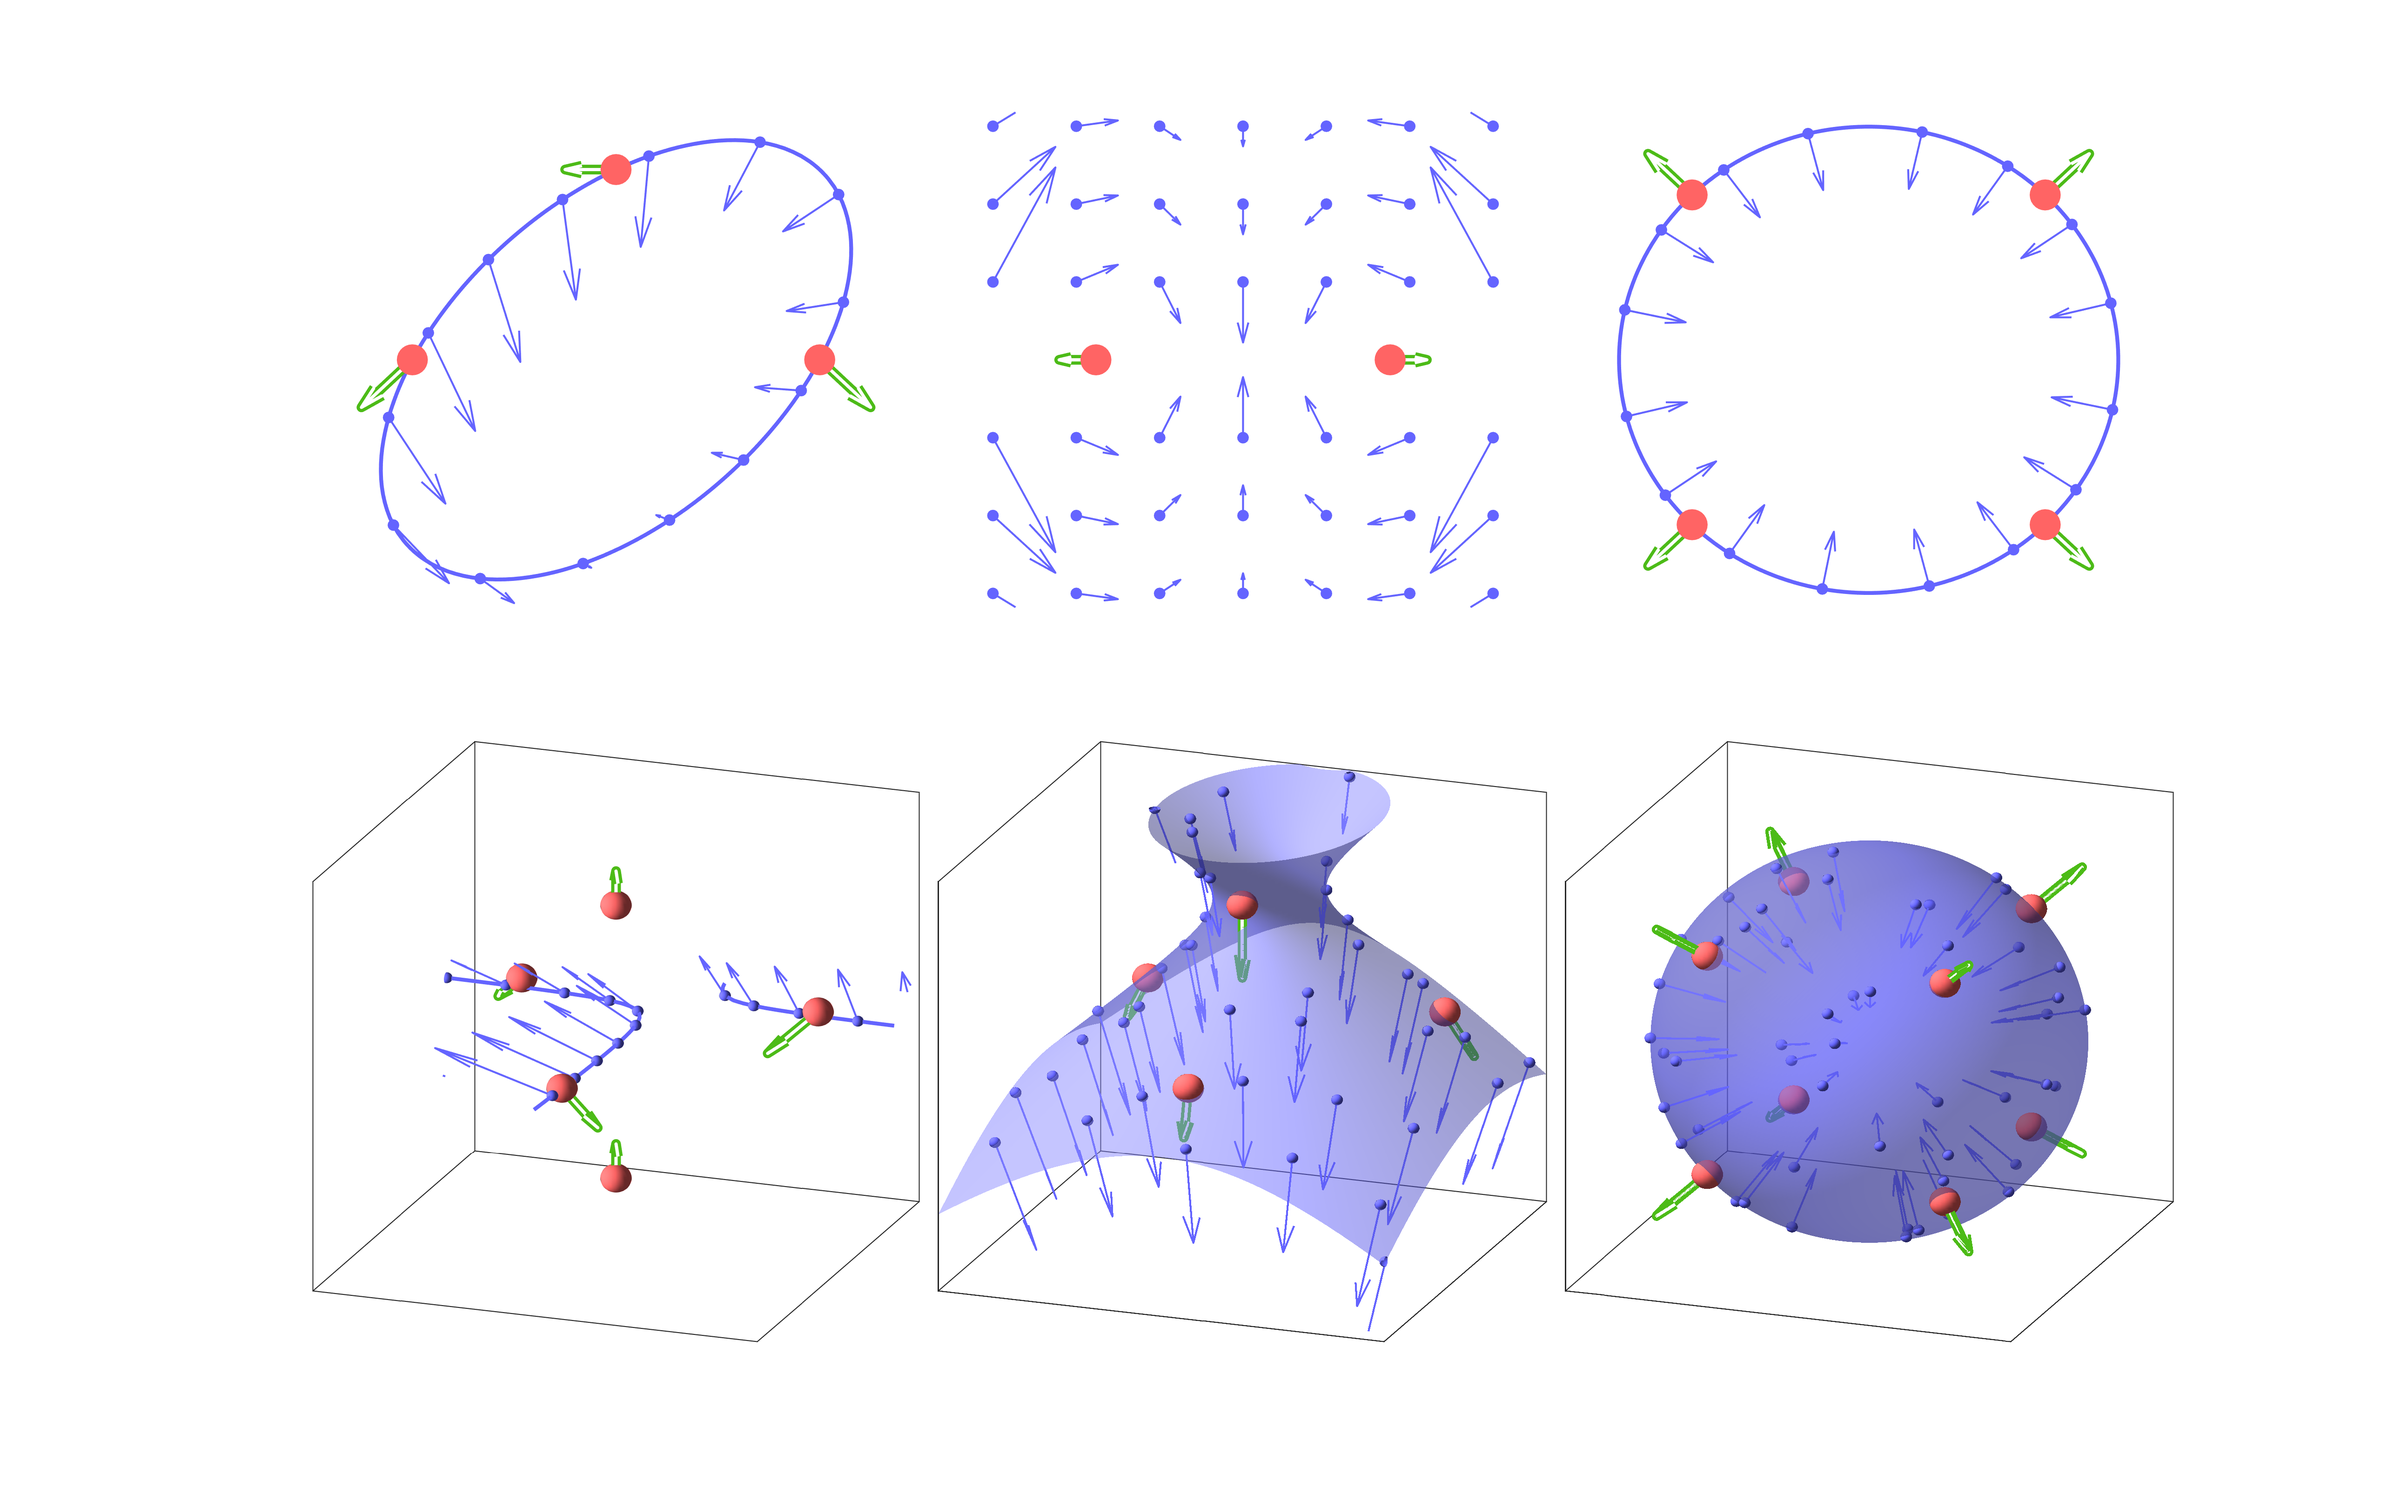
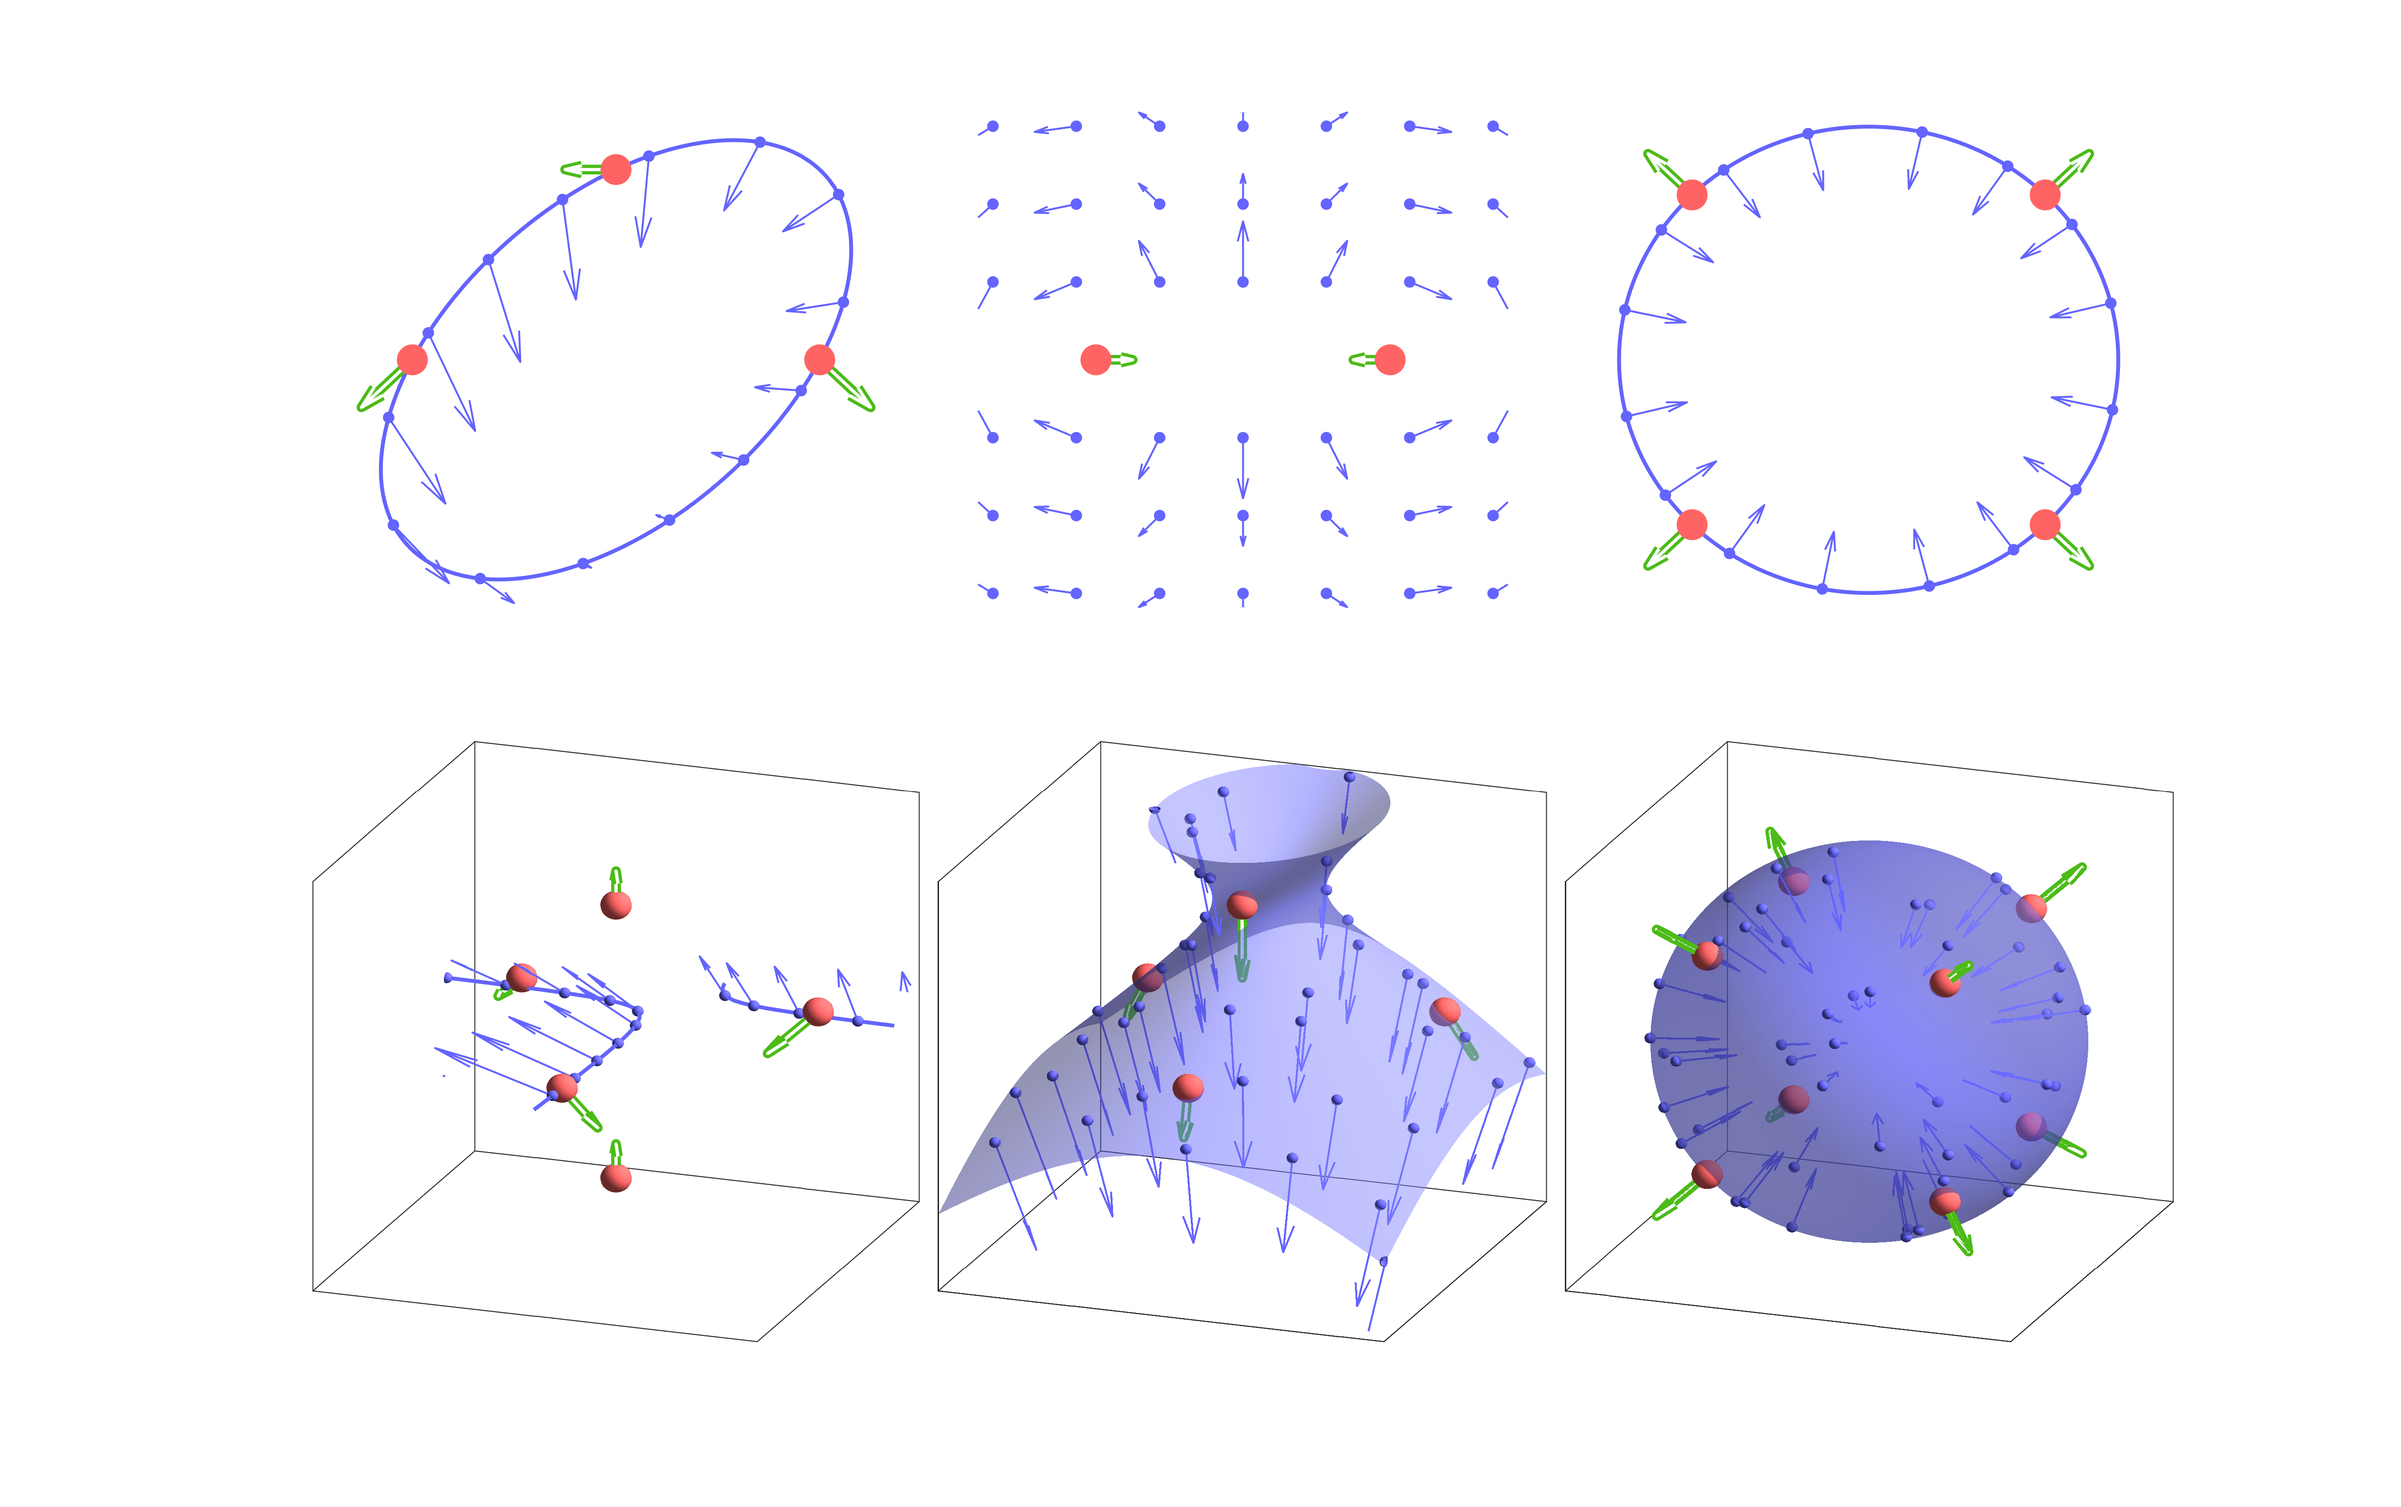
Addition of subfigure for multi-mode construction, and attempt at improving cooperativity example

diff --git a/test.m b/test.m
@@ -103,7 +103,7 @@ nPan1 = [];
 for i = 1:5; nPan1 = [nPan1, [1:6]+(i-1)*24+1]; end
 nPan2 = [];
 for i = 1:6; nPan2 = [nPan2, [1:8]+(i-1)*24]; end
-az = -160; el = 20;         % Views
+az = -160; el = 10;         % Views
 
 
 % Positions and Motions
@@ -213,7 +213,7 @@ fig = figure(4); clf;
 nPan1 = [];
 for i = 1:5; nPan1 = [nPan1, [1:7]+(i-1)*24+.5]; end
 nPan2 = [];
-for i = 1:6; nPan2 = [nPan2, [1:8]+(i-1)*24]; end
+for i = 1:6; nPan2 = [nPan2, [1:7]+(i-1)*24+.5]; end
 az = -175; el = 10;         % Views
 
 
@@ -232,7 +232,7 @@ Us(:,:,2) = [[-1 1 1];...
 UsSSS = zeros(2,4,2);
 UsSSS(:,:,1) = [[-1 -1 1 1];...
                [-1 1 1 -1]]/2;
-UsSSS(:,:,2) = [[.2 -1 1 -.2];...
+UsSSS(:,:,2) = [[.2 1 -1 -.2];...
                [-1 .5 .5 -1]]/2;
 % Initial guess for unspecified nodes
 x0 = [-.7 .7]';
@@ -247,22 +247,32 @@ visualize_conic(Xs, Us, [-1 1; -1 1]*2, [100 100], 0, 1, 0);
 axis(1.5*[-1 1 -1 1]);
 
 
-% b: Place unspecified nodes and construct motions
+% c: Place unspecified nodes and construct motions
 subplot(12,24,nPan1+8)
 [Xu1, fV] = construct_network(Xs, Us, x0, conn, 0);
 [Us1, Uu1, err] = construct_motion(Xs, Us, Xu1, conn, 1, 1);
 axis(1.5*[-1 1 -1 1]);
 
 
-% c: Construct states of self-stress
+% e: Construct states of self-stress
 subplot(12,24,nPan1+16);
-[XuSSS1, fV] = construct_network(XsSSS(:,[1 2 3]), UsSSS(:,[1 2 3],:), [-sqrt(2); 0], connSSS, 0);
-[XuSSS2, fV] = construct_network(XsSSS(:,[1 2 4]), UsSSS(:,[1 2 4],:), [-.5; 1.3], connSSS, 0);
-[XuSSS4, fV] = construct_network(XsSSS(:,[2 3 4]), UsSSS(:,[2 3 4],:), [sqrt(2); 0], connSSS, 0);
-[XuSSS3, fV] = construct_network(XsSSS(:,[1 3 4]), UsSSS(:,[1 3 4],:), [.5; 1.3], connSSS, 0);
+% subplot(2,2,1);
+% visualize_conic(XsSSS(:,[2 3 4]), UsSSS(:,[2 3 4],:), [-1 1; -1 1]*2, [100 100], 0, 1, 1);
+[XuSSS1, fV] = construct_network(XsSSS(:,[2 3 4]), UsSSS(:,[2 3 4],:), [-1 -1]', connSSS, 1);
+% subplot(2,2,2);
+% visualize_conic(XsSSS(:,[1 3 4]), UsSSS(:,[1 3 4],:), [-1 1; -1 1]*2, [100 100], 0, 1, 1);
+[XuSSS2, fV] = construct_network(XsSSS(:,[1 3 4]), UsSSS(:,[1 3 4],:), [-1 0]', connSSS, 1);
+% subplot(2,2,3);
+% visualize_conic(XsSSS(:,[1 2 4]), UsSSS(:,[1 2 4],:), [-1 1; -1 1]*2, [100 100], 0, 1, 1);
+[XuSSS3, fV] = construct_network(XsSSS(:,[1 2 4]), UsSSS(:,[1 2 4],:), [1 0]', connSSS, 1);
+% subplot(2,2,4);
+% visualize_conic(XsSSS(:,[1 2 3]), UsSSS(:,[1 2 3],:), [-1 1; -1 1]*2, [100 100], 0, 1, 1);
+[XuSSS4, fV] = construct_network(XsSSS(:,[1 2 3]), UsSSS(:,[1 2 3],:), [1 -1]', connSSS, 1);
 XuSSS = [XuSSS1 XuSSS2 XuSSS3 XuSSS4];
-connSSS = [1 1; 2 1; 3 1; 1 2; 2 2; 4 2; 1 3; 3 3; 4 3; 2 4; 3 4; 4 4];
-[Us1, Uu1, err] = construct_motion(XsSSS, UsSSS, XuSSS, connSSS, 1, 1);
+connSSS = [2 1; 3 1; 4 1; 1 2; 3 2; 4 2; 1 3; 2 3; 4 3; 1 4; 2 4; 3 4];
+[Us1, Uu1, err] = construct_motion(XsSSS, UsSSS, XuSSS, connSSS, 1, 0);
+axis(1.5*[-1 1 -1 1]);
+% [XM, fC] = sim_motion(XsSSS, XuSSS, connSSS, .1, 110, -[XsSSS XuSSS],1);
 
 
 % Positions and Motions
@@ -282,11 +292,24 @@ x0 = [-.7 -.5 .8;...
       1.2 -.4 -.75;...
       -.4 -1.5 -.3;...
       .2 .6 .6]'*.8;
+x0SSS = [-.7 -.5 .8;...
+         1.2 -.4 -.75;...
+         -.4 -1.5 -.3;...
+         .2 .6 .6;...
+         -.05 .58 -.85]'*.8;...
+         
 % Connectivity
-conn = [1 1; 2 1; 3 1; 4 1; 1 2; 2 2; 3 2; 4 2;...
-        1 3; 2 3; 3 3; 4 3; 1 4; 2 4; 3 4; 4 4];
+conn = [1 1; 2 1; 3 1; 4 1;...
+        1 2; 2 2; 3 2; 4 2;...
+        1 3; 2 3; 3 3; 4 3;...
+        1 4; 2 4; 3 4; 4 4];
+connSSS = [1 1; 2 1; 3 1; 4 1;...
+           1 2; 2 2; 3 2; 4 2;...
+           1 3; 2 3; 3 3; 4 3;...
+           1 4; 2 4; 3 4; 4 4;...
+           1 5; 2 5; 3 5; 4 5];
     
-% d: Visualize solution space
+% b: Visualize solution space
 subplot(12,24,nPan2+24*6)
 visualize_conic(Xs, Us, [-1 1; -1 1; -1 1]*1.8, [100 100 100], 0, 1, 0);
 axis(1.5*[-1 1 -1 1 -1 1]);
@@ -294,10 +317,23 @@ view(az, el);
 camlight(azC, elC); lighting gouraud; material([.4 1 0]);
 
 
-% e: Place unspecified nodes and construct motion
+% d: Place unspecified nodes and construct motion
 subplot(12,24,nPan2+24*6+8)
 [Xu1, fV] = construct_network(Xs, Us, x0, conn, 0);
 [Us1, Uu1, err] = construct_motion(Xs, Us, Xu1, conn, 1, 1);
+axis(1.5*[-1 1 -1 1 -1 1]);
+view(az, el);
+camlight(azC, elC); lighting gouraud; material([.4 1 0]);
+
+
+% f: Place unspecified nodes and construct motion
+subplot(12,24,nPan2+24*6+16)
+[Xu1, fV] = construct_network(Xs, Us, x0SSS, connSSS, 0);
+% Lengths
+LVal = sqrt((Xs(1,connSSS(:,1)) - Xu1(1,connSSS(:,2))).^2 +...
+            (Xs(2,connSSS(:,1)) - Xu1(2,connSSS(:,2))).^2 +...
+            (Xs(3,connSSS(:,1)) - Xu1(3,connSSS(:,2))).^2);
+[Us1, Uu1, err] = construct_motion(Xs, Us, Xu1, connSSS, .01, .01);
 axis(1.5*[-1 1 -1 1 -1 1]);
 view(az, el);
 camlight(azC, elC); lighting gouraud; material([.4 1 0]);
@@ -314,7 +350,7 @@ fig.PaperSize = [19.2 10.8];
 
 
 %% Figure 5b-d
-figure(5); clf;
+fig = figure(5); clf;
 % Subplot Panel Sizes
 nPan1 = [];
 for i = 1:6; nPan1 = [nPan1, [1:4]+(i-1)*24]; end
@@ -338,6 +374,7 @@ conn = [1 1; 2 1; 3 1; 4 1; 1 2; 2 2; 3 2; 4 2];
 subplot(12,24,nPan1)
 construct_network(Xs + [0;1.2], Us, x0 + [0;1.2], conn, 1);
 construct_network(Xs - [0;1.2], Us, x0 - [0;1.2], conn, 1);
+axis([-1.8 1.8 -2.8 2.8]);
 
 
 % b: Combined modules with motion
@@ -345,6 +382,7 @@ subplot(12,24,nPan1 + 4)
 [Xu, fV] = construct_network(Xs, Us, x0, conn, 0);
 [XsT, XuT, connT] = tesselate_network(Xs, Xu, conn, [2 2]', [1 2]');
 [Us, Uu, err] = construct_motion(XsT, zeros(0,0,0), XuT, connT, -2, -2);
+axis([-1.8 1.8 -1.8 3.8]);
 
 
 % c: Tesselation expanded
@@ -356,8 +394,8 @@ axis([-4 12 -2 10]);
 
 
 % d: Tesselation contracted
-subplot(12,24,[nPan1 nPan1+4]+16)
-[XMot2, fC] = sim_motion(XsT, XuT, connT, .1, 110, -[XsT XuT],0);
+subplot(12,24,[nPan1 nPan1+4]+16);
+[XMot2, fC] = sim_motion(XsT, XuT, connT, .1, 130, -[XsT XuT],0);
 construct_motion(XMot2(:,1:size(XsT,2),end), zeros(0,0,0), XMot2(:,[1:size(XuT,2)]+size(XsT,2),end), connT, .1, .1);
 axis([-4 12 -2 10]);
 
@@ -405,7 +443,7 @@ conn = [1 1; 2 1; 3 1; 4 1; 5 1;...
 [Usp, Uup, err] = construct_motion(Xs2, -Us2, Xu2, conn, 1, 1);
 
 axis([.9 19.1 -3 1.4 .5 3.5]);
-view(-10, 10);
+view(-8, 10);
 
 
 [XsT, XuT, connT] = tesselate_network([Xs1 Xs2-[1;0;0]], [Xu1 Xu2-[1;0;0]], [conn; conn+[size(Xs1,2), size(Xu1,2)]], [0 0 0]', [1 1 1]');
@@ -432,6 +470,80 @@ fig.PaperUnits = 'inches';
 fig.PaperPosition = [0 0 19.2 10.8];
 fig.PaperSize = [19.2 10.8];
 % print(['Figures\' fName], '-dpng','-r300');
+
+
+%% Cooperativity Design
+figure(6); clf;
+nPan1 = [];
+for i = 1:5; nPan1 = [nPan1, [1:4]+(i-1)*24]; end
+nPan2 = [];
+for i = 1:6; nPan2 = [nPan2, [1:24]+(i-1)*24]; end
+az = 30; el = 25;         % Views
+azC = 50; elC = 30;         % Camera Position
+
+xS1 = [-2 -2 -1 -1;...
+       -1  1  0  0;...
+        0  0 -1  1]/2;
+xF1 = xS1 - [ 0     0     0     0;...
+             -0.2   0.2   0     0;...
+              0     0     0.05 -0.05];
+        
+xS2 = [ 2  2  1  1;...
+       -1  1  0  0;...
+        0  0 -1  1]/2;
+xF2 = xS2 - [ 0     0     0     0;...
+             -0.2   0.2   0     0;...
+              0     0     0.05 -0.05];
+
+x01 = [-0.681  0.151  0.596;...
+       -0.818  0.145  0.010;...
+       -0.740  0.172 -0.515;...
+       -0.795 -0.152  0.300;...
+       -0.818 -0.146  0.051;...
+       -0.758 -0.169 -0.475]';
+% x01 = x01 + (rand(size(x01)) - .5)/10;
+% x01 = [-1.6  0.1  0.6;...
+%        -1.6 -0.1  0.6;...
+%        -1.5  0.3  0.6;...
+%        -1.5 -0.3  0.6;...
+%        -1.2  0.2 -0.5;...
+%        -1.2 -0.2 -0.5]';
+% x02 = [0.8 -0.2  0.9;...
+%        0.8  0.2  0.9;...
+%        1.8 -0.4  0.4;...
+%        1.8  0.4  0.4;...
+%        1.1 -0.3 -0.8;...
+%        1.1  0.3 -0.8]';
+x02 = [-x01(1,:); x01(2:3,:)];
+conn1 = [1 1; 2 1; 3 1; 4 1;...
+         1 2; 2 2; 3 2; 4 2;...
+         1 3; 2 3; 3 3; 4 3;...
+         1 4; 2 4; 3 4; 4 4;...
+         1 5; 2 5; 3 5; 4 5;...
+         1 6; 2 6; 3 6; 4 6];
+     
+xC = [-1 -1  1  1  0      ;...
+       0  0  0  0  sqrt(2);...
+      -1  1 -1  1  0]/2   ;
+x0C = [ 0        sqrt(2)  sqrt(2);...
+        0        sqrt(2) -sqrt(2);...
+        sqrt(2)  sqrt(2)  0.0    ;...
+       -sqrt(2)  sqrt(2)  0.0     ]'/4;
+uC = xC/2;
+connC = [1 1; 2 1; 3 1; 4 1; 5 1;...
+         1 2; 2 2; 3 2; 4 2; 5 2;...
+         1 3; 2 3; 3 3; 4 3; 5 3;...
+         1 4; 2 4; 3 4; 4 4; 5 4];
+
+     
+     
+% subplot(2,3,1); cla;
+visualize_conic_finite(xS1, xF1, [-1 2; -1 1; -1 1]*1, [100; 100; 100], 2, 1, 1);
+visualize_conic(xS1, xF1-xS1 - .4*[1 1 0 0; 0 0 0 0; 0 0 0 0], [-2 2; -1 1; -1 1]*1, [100; 100; 100], 0, 1, 1);
+view(az, el);
+
+
+
 
 
 %% Figure 6
@@ -466,12 +578,19 @@ xF2 = xS2 - [ 0     0     0     0;...
              -0.2   0.2   0     0;...
               0     0     0.05 -0.05];
 
-x01 = [-1.561 -0.876  0.415;...
-       -1.561  0.876  0.315;...
-       -1.390 -0.955  0.10;...
-       -1.390  0.955  0.20;...
-       -1.476 -0.700 -0.233;...
-       -1.476  0.700 -0.333]';
+x01 = [-0.700  0.151  0.565;...
+       -0.818  0.145  0.010;...
+       -0.740  0.172 -0.515;...
+       -0.795 -0.152  0.300;...
+       -0.818 -0.146  0.051;...
+       -0.758 -0.169 -0.475]';
+x01 = x01 + (rand(size(x01)) - .5)*.1;
+% x01 = [-1.561 -0.876  0.415;...
+%        -1.561  0.876  0.315;...
+%        -1.390 -0.955  0.10;...
+%        -1.390  0.955  0.20;...
+%        -1.476 -0.700 -0.233;...
+%        -1.476  0.700 -0.333]';
 % x01 = x01 + (rand(size(x01)) - .5)/10;
 % x01 = [-1.6  0.1  0.6;...
 %        -1.6 -0.1  0.6;...
@@ -545,19 +664,21 @@ LVal1 = sqrt((xS1(1,conn1(:,1)) - Xu1(1,conn1(:,2))).^2 +...
 LVal2 = sqrt((xS2(1,conn1(:,1)) - Xu2(1,conn1(:,2))).^2 +...
              (xS2(2,conn1(:,1)) - Xu2(2,conn1(:,2))).^2 +...
              (xS2(3,conn1(:,1)) - Xu2(3,conn1(:,2))).^2);
+drawnow;
          
          
 % Simulate
-kT = [ones(48,1); ones(23,1)];
-% [MSi, ESi] = sim_motion3D_congrad(xS2, Xu2(1:3,:), conn1, LVal2, 0.001, 1000, [1 2], xF2(:,[1 2]));
-% [MSSi, ESSi] = sim_motion3D_congrad(MSi(:,1:4,end), MSi(:,5:10,end), conn1, LVal1, 0.001, 20, [1], MSi(:,[1]));
-% D = zeros(size(xS1,2), size(xS1,2), length(ESi));
-% for i = 1:length(ESi)
-%     D(:,:,i) = squareform(pdist(MSi(:,1:4,i)'));
-% end
-% DS = squareform(pdist(xF1'));
-% DSS = squareform(pdist(MSSi(:,:,end)'));
-% plot(squeeze(sum(sum((D - DS).^2)))')
+kT = [ones(48,1); 0.1*ones(23,1)];
+[MSi, ESi] = sim_motion3D_congrad(xS2, Xu2(1:3,:), conn1, LVal2, 0.001, 1000, [1 2], xF2(:,[1 2]));
+[MSSi, ESSi] = sim_motion3D_congrad(MSi(:,1:4,end), MSi(:,5:10,end), conn1, LVal1, 0.001, 20, [1], MSi(:,[1]));
+D = zeros(size(xS1,2), size(xS1,2), length(ESi));
+for i = 1:length(ESi)
+    D(:,:,i) = squareform(pdist(MSi(:,1:4,i)'));
+end
+DS = squareform(pdist(xF1'));
+DSS = squareform(pdist(MSSi(:,:,end)'));
+plot(squeeze(sum(sum((D - DS).^2)))')
+
 [MK, EK] = sim_motion3D_congrad(XsT, XuT, connT, LVal, 0.001, 1000, [1 2], xF1(:,[1 2]), kT);
 [M, E] = sim_motion3D_congrad(XsT, XuT, connT, LVal, 0.001, 1000, [5 6], xF2(:,[1 2]), kT);
 XsT2 = M(:,1:size(XsT,2),end);

diff --git a/construct_network.m b/construct_network.m
@@ -74,7 +74,7 @@ if(pV == 1)
              [Xs(2,conn(:,1)); Xu(2,conn(:,2))],...
              'linewidth', lw, 'color', [0 0 0 ea]);
         plot(Xs(1,:), Xs(2,:), 'o', 'linewidth', ms, 'markersize', ms, 'color', C_SN)
-        plot(Xu(1,:), Xu(2,:), 'o', 'linewidth', ms, 'markersize', ms, 'color', C_UN(j,:));
+        plot(Xu(1,:), Xu(2,:), 'o', 'linewidth', ms, 'markersize', ms, 'color', C_UN(1,:));
         set(gca,'visible',0);
         set(gcf,'color','w');
     elseif(d==3)
@@ -89,7 +89,7 @@ if(pV == 1)
              'linewidth', lw, 'color', [0 0 0 ea]);
         for i = 1:size(Xu,2)
             s = surf(xSp+Xu(1,i), ySp+Xu(2,i), zSp+Xu(3,i));
-            s.FaceColor = C_UN(j,:);
+            s.FaceColor = C_UN(1,:);
             s.EdgeColor = 'none';
         end
         for i = 1:size(Xs,2)

diff --git a/visualize_conic_finite.m b/visualize_conic_finite.m
@@ -138,7 +138,7 @@ for j = 1:z
             p1 = patch(fI);
             isonormals(xx,yy,zz,F1,p1)
             fI2 = isosurface(xx, yy, zz, F2, 0);
-            p2 = patch(shrinkfaces(fI2,.6));
+            p2 = patch(fI2);
             isonormals(xx,yy,zz,F2,p2)
             C = fI.vertices';
             S = [W v0] * P1 * [C; ones(1, size(C,2))];
